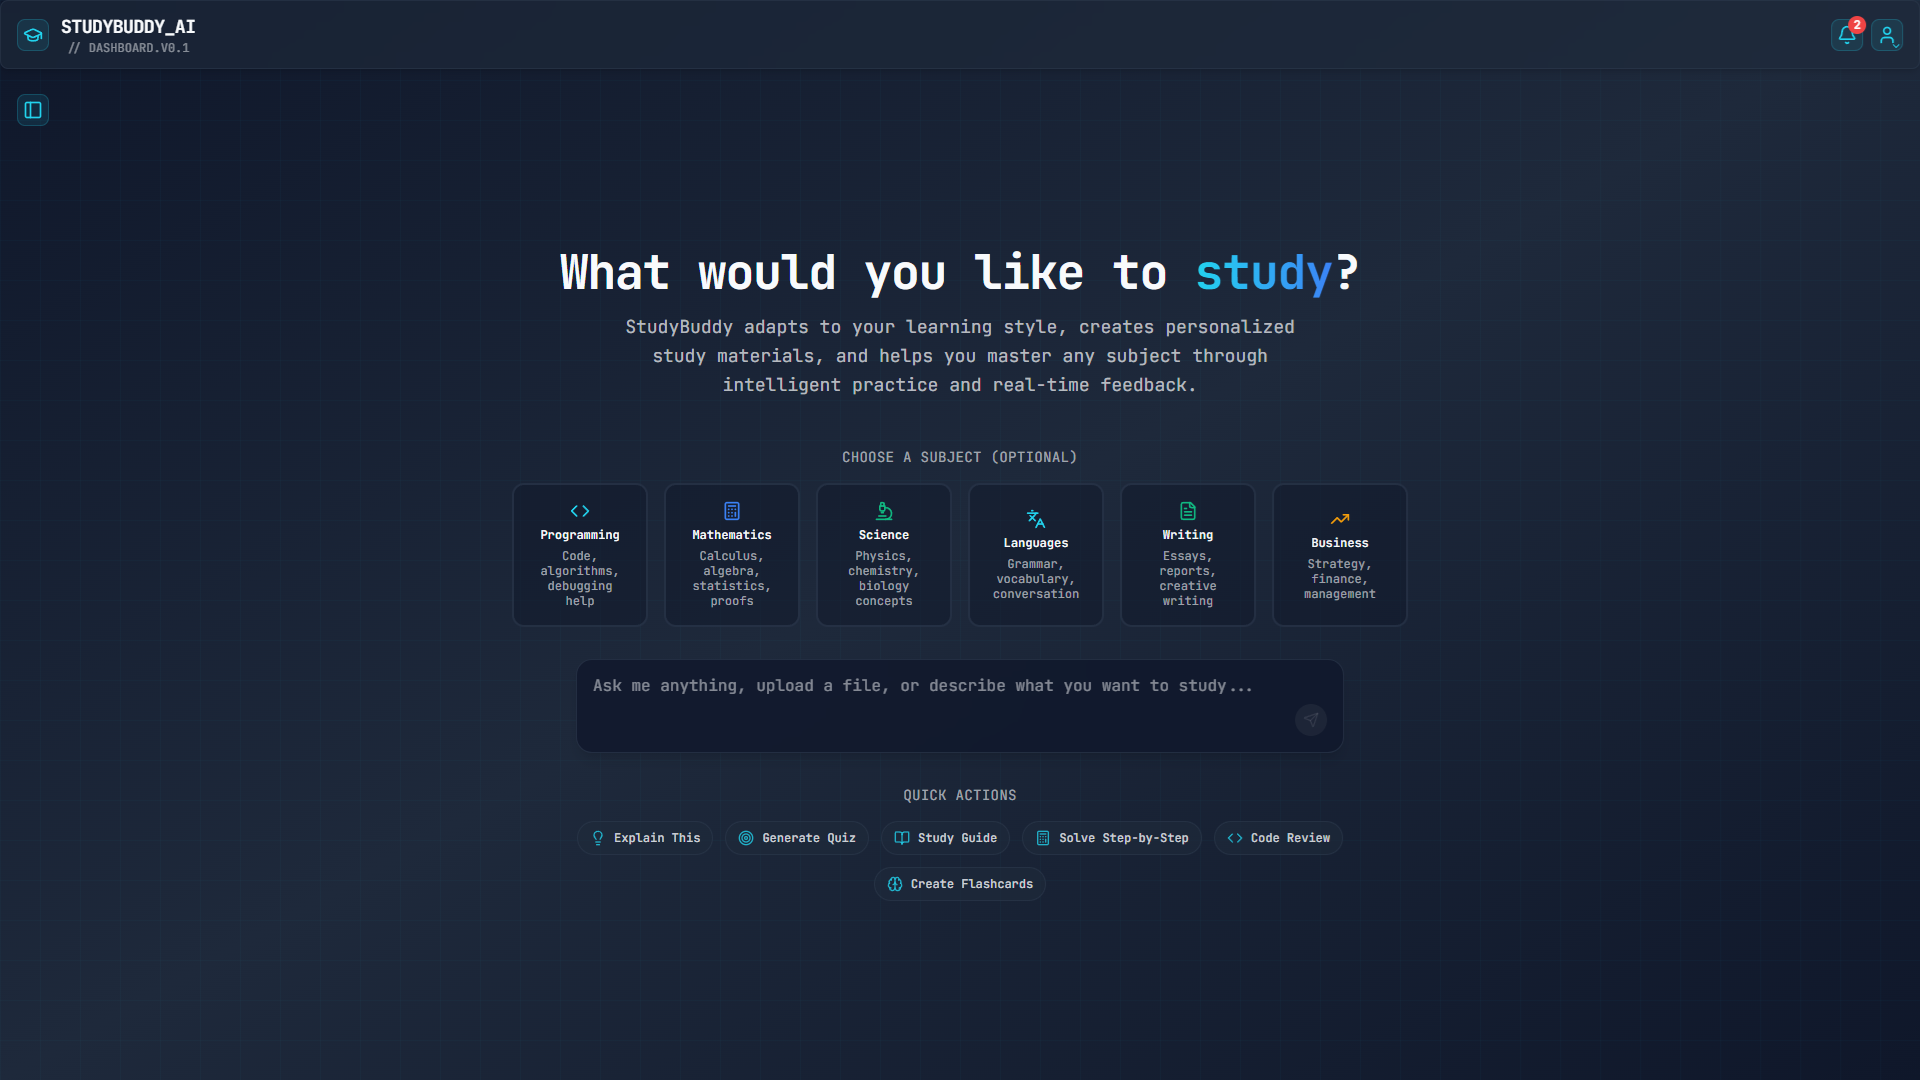
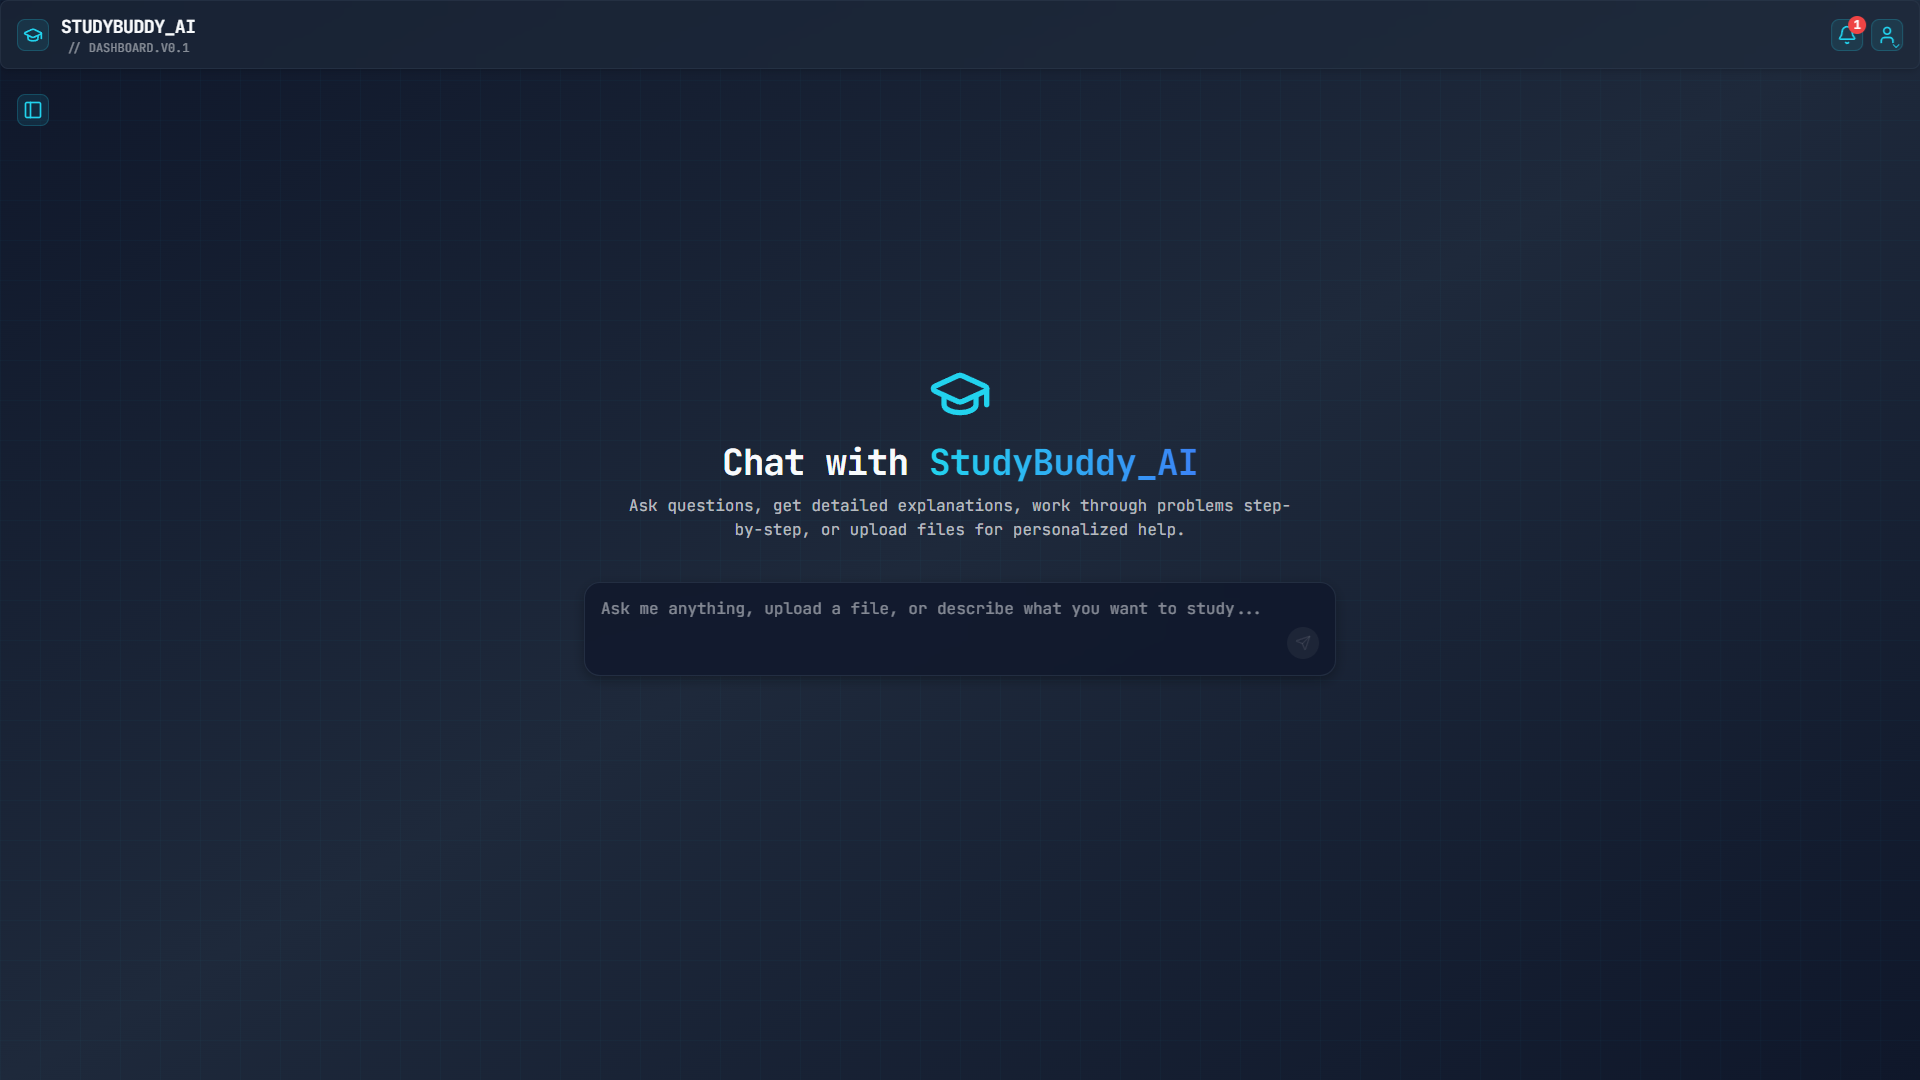
Updated README

diff --git a/README.MD b/README.MD
@@ -7,8 +7,11 @@ An intelligent learning assistant platform that helps students learn more effect
 ![StudyBuddy AI Login](screenshots/auth-form.png)
 _Clean and intuitive authentication interface with login and registration functionality_
 
-![StudyBuddy AI Landing Page](screenshots/new-chat.png)
-_Main landing page featuring subject selection cards and quick action prompts for starting learning sessions_
+![StudyBuddy AI Dashboard](screenshots/dashboard.png)
+_Main dashboard featuring study method selection cards including flashcards, quizzes, chat, presentations, and podcasts_
+
+![StudyBuddy AI Chat Interface](screenshots/new-chat.png)
+_Chat interface with AI assistant, featuring multi-modal input options and chat history sidebar_
 
 ![StudyBuddy AI Chat Session](screenshots/chat-session.png)
 _Active chat session showing AI-powered responses with conversation history in the sidebar_
@@ -107,7 +110,7 @@ docker-compose up -d
 
 This will start:
 
-- Frontend at `http://localhost:3000` (Main StudyBuddy interface)
+- Frontend at `http://localhost:3000`
 - API Gateway at `http://localhost:3001`
 - User Service at `http://localhost:5001`
 - AI Service at `http://localhost:5002` (Python FastAPI)
@@ -167,7 +170,7 @@ This will start:
    npm run dev
    ```
 
-   The main application will be available at `http://localhost:3000` with the NewChat interface as the landing page.
+   The main application will be available at `http://localhost:3000` with either the Login/Register page or the Dashboard as the landing page.
 
 ### Environment Setup
 
@@ -229,13 +232,25 @@ The project includes development database management tools:
 
 ### User Interface Features
 
-The NewChat component serves as the main interaction hub:
+The application flow centers around the Dashboard landing page:
 
-- **Subject Selection**: Click on programming, math, science, languages, writing, or business cards to focus your learning session
-- **Quick Actions**: Use pre-built prompts for common learning tasks like explanations, quizzes, and study guides
+**Dashboard (Landing Page)**
+
+- **Study Method Selection**: Choose from five learning methods:
+  - **Flash Cards**: Interactive memorization cards
+  - **Quiz**: Test your knowledge with generated questions
+  - **Chat**: AI-powered conversational learning assistant
+  - **Presentation**: Visual learning slides
+  - **Podcast**: Audio learning experience
+- **Personalized Learning**: Each method creates content tailored to your learning style
+- **Responsive Design**: Grid layout adapts from mobile to desktop
+
+**Chat Interface (via Dashboard → Chat button)**
+
 - **Multi-Modal Input**: Support for text, file uploads, voice input, and camera integration
-- **Chat History**: Access previous learning sessions through the sidebar with timestamps and starred conversations
-- **Responsive Design**: Optimized for desktop and mobile learning experiences
+- **Session Management**: Chat history accessible through the sidebar with timestamps
+- **Real-time AI Responses**: Streaming responses from AI service
+- **Quick Start**: Create new chat sessions or continue existing conversations
 
 ### Deployment Modes
 
@@ -320,8 +335,7 @@ poetry run pytest
 
 - [x] Basic project structure
 - [x] Frontend setup with React + TypeScript
-- [x] Interactive NewChat landing page with subject selection
-- [x] Quick action prompts for learning tasks
+- [x] Dashboard landing page with study method selection
 - [x] Chat interface with multi-modal input support
 - [x] Sidebar with chat history management
 - [x] API Gateway implementation
@@ -335,15 +349,16 @@ poetry run pytest
 - [x] Real-time streaming AI responses
 - [x] Frontend-backend WebSocket/streaming communication
 - [ ] Google Gemini API integration
-- [ ] Context-aware responses based on selected subjects
+- [ ] Context-aware responses based on selected study methods
 - [ ] File upload processing for documents and images
 - [ ] Voice input transcription and processing
 
 ### Phase 3: Enhanced Learning Tools 📅
 
-- [ ] Advanced study guide generation with structured content
 - [ ] Interactive flashcard system with spaced repetition
-- [ ] Adaptive quiz generation based on performance
+- [ ] Adaptive quiz generation with multiple question types
+- [ ] Presentation generator with visual slides
+- [ ] Podcast creator with text-to-speech integration
 - [ ] Progress tracking and learning analytics
 - [ ] Personalized learning path recommendations
 
@@ -354,16 +369,18 @@ poetry run pytest
 - [ ] Advanced document processing and content extraction
 - [ ] Real-time notifications and reminders
 - [ ] Performance optimization and caching
+- [ ] Cross-method learning integration
 
 ## 🎯 Project Goals
 
 This project demonstrates:
 
-- **Modern Learning Interface**: Intuitive subject-based navigation with AI-powered quick actions
+- **Comprehensive Learning Platform**: Multi-method approach to personalized education
+- **Modern Dashboard Interface**: Clean, intuitive study method selection with clear navigation
 - **Full-Stack Development**: React frontend with comprehensive backend microservices
 - **Production-Ready Architecture**: Complete Docker containerization with health checks
 - **Microservices Design**: Proper service separation with API Gateway pattern
-- **Educational Technology**: Practical application of AI for personalized learning experiences
+- **Educational Technology**: Practical application of AI for diverse learning experiences
 - **Multi-Language Backend**: Node.js services with Python AI processing
 - **User Experience Focus**: Multi-modal input support and responsive design
 - **Database Architecture**: Multi-database setup with service isolation
